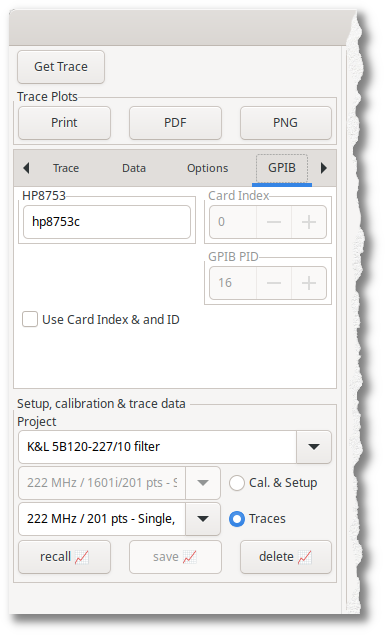
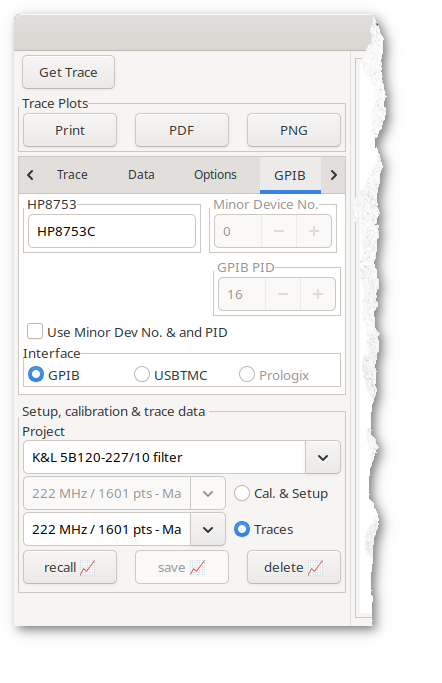
update help

diff --git a/src/hp8753.c b/src/hp8753.c
@@ -210,8 +210,16 @@ keyHandler (GtkWidget *widget, GdkEventKey  *event, gpointer   user_data) {
           return FALSE;     // pass the event on to the underlying widgets
     	  break;
       }
-   } else if( event->keyval == GDK_KEY_Escape &&  modifier == 0 ) {
-	   postDataToGPIBThread (TG_ABORT, NULL);
+   } else if( event->keyval == GDK_KEY_Escape  ) {
+       switch ( modifier ) {
+       case 0:
+       default:
+                postDataToGPIBThread (TG_ABORT, NULL);
+                break;
+       case GDK_SHIFT_MASK:
+                postDataToGPIBThread (TG_SETUP_GPIB, NULL);
+                break;
+       }
    } else {
        // not a Fn or Esc key .. do with it what you will
        return FALSE;     // pass the event on to the underlying widgets

diff --git a/src/GPIBcommsThread.c b/src/GPIBcommsThread.c
@@ -369,9 +369,13 @@ threadGPIB(gpointer _pGlobal) {
             postError("Cannot obtain HP8753 descriptor");
         } else if (!pingGPIBdevice( &GPIBinterface )) {
             postError("HP8753 is not responding");
-
-            GPIBtimeout( &GPIBinterface, T1s, NULL, eTMO_SET );
-            GPIBclear(  &GPIBinterface );
+            // attempt to reopen if USBTMC
+            if( GPIBinterface.interfaceType == eUSBTMC ) {
+                GPIBopen(pGlobal, &GPIBinterface);
+            } else {
+                GPIBtimeout( &GPIBinterface, T1s, NULL, eTMO_SET );
+                GPIBclear(  &GPIBinterface );
+            }
             usleep(ms(250));
         } else {
             pGlobal->flags.bGPIBcommsActive = TRUE;

diff --git a/src/USBTMC_interface.c b/src/USBTMC_interface.c
@@ -342,7 +342,14 @@ IF_USBTMC_close( tGPIBinterface *pGPIB_HP8753) {
  */
 gboolean
 IF_USBTMC_ping( tGPIBinterface *pGPIB_HP8753 ) {
-    return( fcntl( pGPIB_HP8753->descriptor, F_GETFD) != -1 || errno != EBADF );
+    unsigned char statusByte = 0;
+    gint status = ioctl( pGPIB_HP8753->descriptor, USBTMC488_IOCTL_READ_STB, &statusByte );
+    if ( status == ERROR )
+        return FALSE;
+    else
+        return TRUE;
+
+    // return( fcntl( pGPIB_HP8753->descriptor, F_GETFD) != -1 || errno != EBADF );
 }
 
 gint GPIB_TO_USBTMC_TIMEOUT[] = { 100000,
